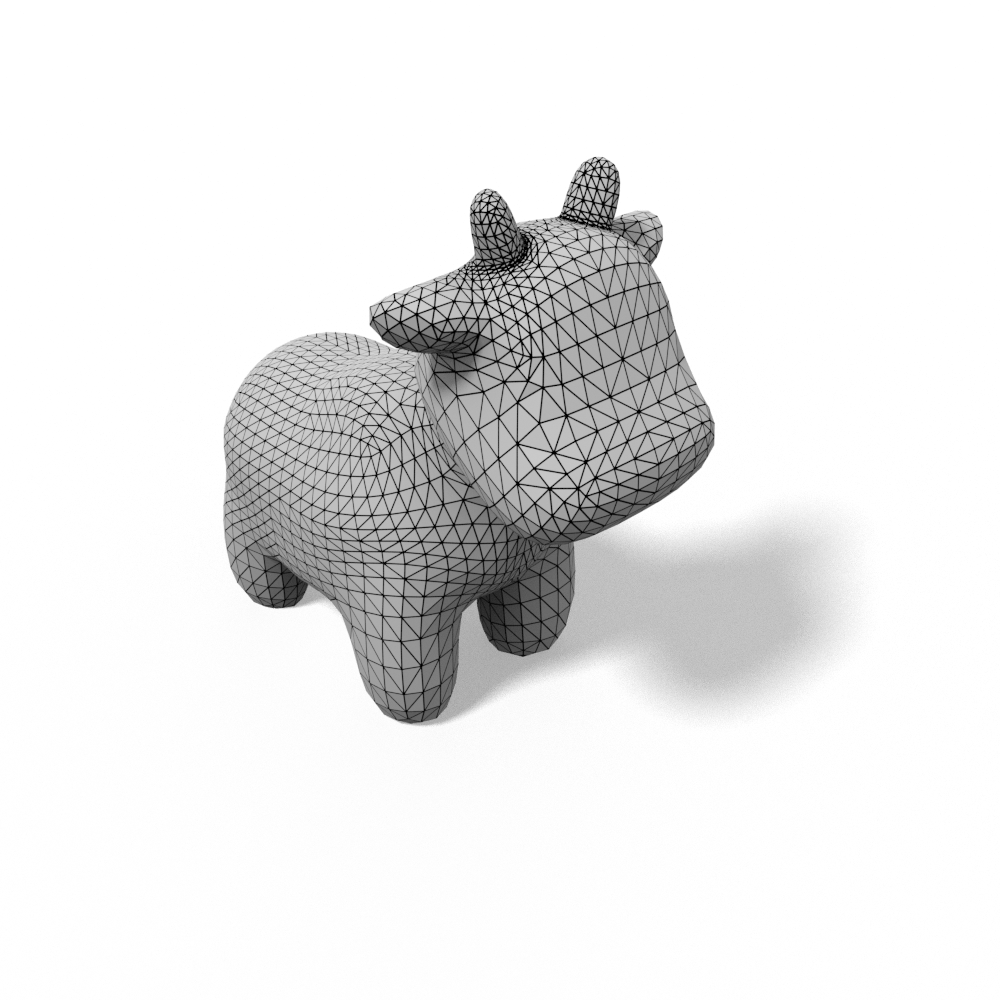
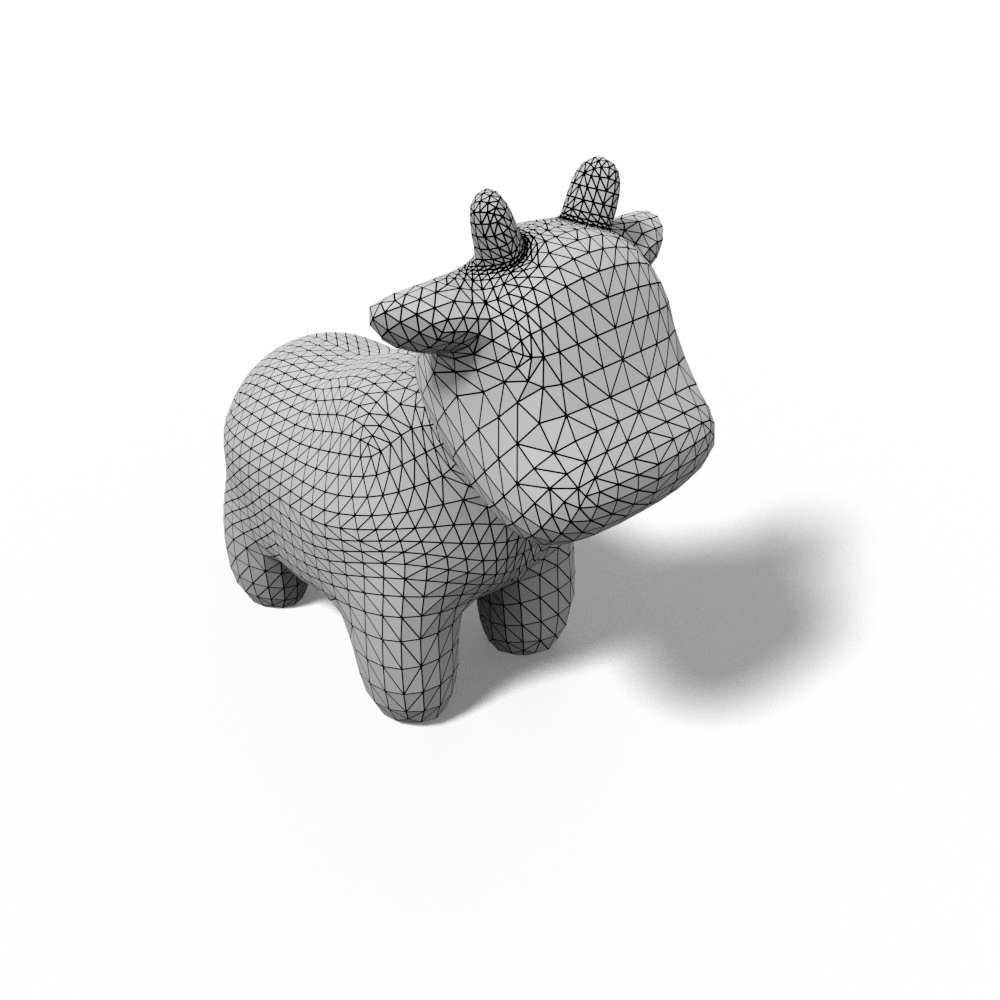
update shadow catcher and toon

Changed region(s): [[0.403, 0.527, 0.837, 0.744], [0.279, 0.589, 0.341, 0.62]]

diff --git a/cycles/utils/setMat_toon.py b/cycles/utils/setMat_toon.py
@@ -6,34 +6,44 @@ def setMat_toon(mesh, \
             saturation, \
             brightness, \
             colorPos = (0.05, 0.15),\
-            hsv_Vrange = (0.6,0.0)):
+            hsv_V = (0.6, 0.0, 0.3)):
     mat = bpy.data.materials.new('MeshMaterial')
     mesh.data.materials.append(mat)
     mesh.active_material = mat
     mat.use_nodes = True
     tree = mat.node_tree
 
-    numColor = len(colorPos) + 1 # colorPos >= 2
-    C = np.linspace(hsv_Vrange[0], hsv_Vrange[1], num=numColor) 
+    numColor = len(hsv_V) # numColor >= 3
+
+    # set principled	
+    principleNode = tree.nodes["Principled BSDF"]
+    principleNode.inputs['Roughness'].default_value = 0.7
+    principleNode.inputs['Sheen Tint'].default_value = 0
 
     # init level
     initRGB = tree.nodes.new('ShaderNodeHueSaturation')
     initRGB.inputs['Color'].default_value = (.5,.5,.5,1)
     initRGB.inputs['Hue'].default_value = 0
     initRGB.inputs['Saturation'].default_value = 0
-    initRGB.inputs['Value'].default_value = C[0]
+    initRGB.inputs['Value'].default_value = hsv_V[0]
+    initDiff = tree.nodes.new('ShaderNodeBsdfDiffuse')
+    tree.links.new(initRGB.outputs['Color'], initDiff.inputs['Color'])
+
 
     # init array
     RGBList = [None] * (numColor - 1)
     RampList = [None] * (numColor - 1)
     MixList = [None] * (numColor - 1)
+    DiffList = [None] * (numColor - 1)
     for ii in range(numColor-1):
         # RGB node
         RGBList[ii] = tree.nodes.new('ShaderNodeHueSaturation')
         RGBList[ii].inputs['Color'].default_value = (.5,.5,.5,1)
         RGBList[ii].inputs['Hue'].default_value = 0
         RGBList[ii].inputs['Saturation'].default_value = 0
-        RGBList[ii].inputs['Value'].default_value = C[ii+1]
+        RGBList[ii].inputs['Value'].default_value = hsv_V[ii+1]
+        # Diffuse after RGB
+        DiffList[ii] = tree.nodes.new('ShaderNodeBsdfDiffuse')
         # Color Ramp
         RampList[ii] = tree.nodes.new('ShaderNodeValToRGB')
         RampList[ii].color_ramp.interpolation = 'CONSTANT'
@@ -44,7 +54,8 @@ def setMat_toon(mesh, \
         if ii > 0 and ii < (numColor-1):
             tree.links.new(MixList[ii-1].outputs['Shader'], MixList[ii].inputs[1])
         tree.links.new(RampList[ii].outputs['Color'], MixList[ii].inputs[0])
-        tree.links.new(RGBList[ii].outputs['Color'], MixList[ii].inputs[2])
+        tree.links.new(RGBList[ii].outputs['Color'], DiffList[ii].inputs['Color'])
+        tree.links.new(DiffList[ii].outputs['BSDF'], MixList[ii].inputs[2])
 
     # color of the mesh
     mainColor = tree.nodes.new('ShaderNodeHueSaturation')
@@ -54,9 +65,10 @@ def setMat_toon(mesh, \
 
     # initial and end links
     addShader = tree.nodes.new('ShaderNodeAddShader')
-    tree.links.new(initRGB.outputs['Color'], MixList[0].inputs[1])
+    tree.links.new(initDiff.outputs['BSDF'], MixList[0].inputs[1])
     tree.links.new(MixList[-1].outputs['Shader'], addShader.inputs[0])
-    tree.links.new(mainColor.outputs['Color'], addShader.inputs[1])
+    tree.links.new(mainColor.outputs['Color'], principleNode.inputs['Base Color'])
+    tree.links.new(principleNode.outputs['BSDF'], addShader.inputs[1])
     tree.links.new(addShader.outputs['Shader'], tree.nodes['Material Output'].inputs['Surface'])
 
     # add normal to the color

diff --git a/cycles/utils/invisibleGround.py b/cycles/utils/invisibleGround.py
@@ -1,24 +1,15 @@
 import bpy
 
-def invisibleGround(location = (0,0,0), groundSize = 5, shadowDarkeness = 0.18):
+def invisibleGround(location = (0,0,0), groundSize = 5, shadowDarkeness = 0.7):
 	# initialize a ground for shadow
 	bpy.context.scene.cycles.film_transparent = True
 	bpy.ops.mesh.primitive_plane_add(location = location, size = groundSize)
 	bpy.context.object.cycles.is_shadow_catcher = True
 
-	# set material
+	# # set material
 	ground = bpy.context.object
 	mat = bpy.data.materials.new('MeshMaterial')
 	ground.data.materials.append(mat)
 	mat.use_nodes = True
 	tree = mat.node_tree
-	tree.nodes.new('ShaderNodeMixShader')
-	tree.nodes.new('ShaderNodeBsdfGlass')
-	tree.links.new(tree.nodes["Principled BSDF"].outputs['BSDF'], tree.nodes['Mix Shader'].inputs[2])
-	tree.links.new(tree.nodes["Glass BSDF"].outputs['BSDF'], tree.nodes['Mix Shader'].inputs[1])
-	tree.links.new(tree.nodes["Mix Shader"].outputs['Shader'], tree.nodes['Material Output'].inputs['Surface'])
-	tree.nodes["Principled BSDF"].inputs['Base Color'].default_value = (1,1,1,1)
-	tree.nodes["Glass BSDF"].inputs['Color'].default_value = (1,1,1,1)
-	tree.nodes["Glass BSDF"].inputs[1].default_value = 1.0
-	tree.nodes["Glass BSDF"].inputs[2].default_value = 1.0
-	tree.nodes["Mix Shader"].inputs['Fac'].default_value = shadowDarkeness
+	tree.nodes["Principled BSDF"].inputs['Transmission'].default_value = shadowDarkeness

diff --git a/cycles/demo_toon.py b/cycles/demo_toon.py
@@ -1,5 +1,5 @@
 import sys
-sys.path.append('/Users/hsuehtil/Dropbox/BlenderToolbox/cycles')
+sys.path.append('/home/hsuehtil/Dropbox/BlenderToolbox/cycles')
 from include import *
 import bpy
 
@@ -29,15 +29,15 @@ subdivision(mesh, level)
 
 # # set material (option1: render mesh with edges)
 colorPos = (0.05, 0.25) # the length is the number of discrete color (0~1)
+colorDark = (0.9, 0.15, 0.45) # len(colorDark) = len(colorPos) + 1
 saturation = 1.5
 brightness = 1.0
 meshColor = coralRed
-hsv_Vrange = (0.9, 0.15)
-setMat_toon(mesh, meshColor, saturation, brightness, colorPos, hsv_Vrange)
+setMat_toon(mesh, meshColor, saturation, brightness, colorPos, colorDark)
 
 # # set invisible plane (shadow catcher)
 groundCenter = (0,0,0)
-shadowDarkeness = 0.05
+shadowDarkeness = 0.7
 groundSize = 20
 invisibleGround(groundCenter, groundSize, shadowDarkeness)
 

diff --git a/cycles/demo_edge.py b/cycles/demo_edge.py
@@ -1,5 +1,5 @@
 import sys
-sys.path.append('/Users/hsuehtil/Dropbox/BlenderToolbox/cycles')
+sys.path.append('/home/hsuehtil/Dropbox/BlenderToolbox/cycles')
 
 from include import *
 import bpy
@@ -39,7 +39,7 @@ setMat_edge(mesh, edgeThickness, edgeColor, edgeColorSaturation, edgeColorBright
 
 # # set invisible plane (shadow catcher)
 groundCenter = (0,0,0)
-shadowDarkeness = 0.05
+shadowDarkeness = 0.8
 groundSize = 20
 invisibleGround(groundCenter, groundSize, shadowDarkeness)
 

diff --git a/cycles/demo_facePoints.py b/cycles/demo_facePoints.py
@@ -1,5 +1,5 @@
 import sys
-sys.path.append('/Users/hsuehtil/Dropbox/BlenderToolbox/cycles')
+sys.path.append('/home/hsuehtil/Dropbox/BlenderToolbox/cycles')
 
 from include import *
 import bpy
@@ -46,7 +46,7 @@ drawPoints(mesh, ptColor, ptSize, ptSaturation, ptBrightness, emitType, showMesh
 
 # # set invisible plane (shadow catcher)
 groundCenter = (0,0,0)
-shadowDarkeness = 0.05
+shadowDarkeness = 0.6
 groundSize = 20
 invisibleGround(groundCenter, groundSize, shadowDarkeness)
 

diff --git a/cycles/demo_vertexPoints.py b/cycles/demo_vertexPoints.py
@@ -1,5 +1,5 @@
 import sys
-sys.path.append('/Users/hsuehtil/Dropbox/BlenderToolbox/cycles')
+sys.path.append('/home/hsuehtil/Dropbox/BlenderToolbox/cycles')
 from include import *
 import bpy
 
@@ -45,7 +45,7 @@ drawPoints(mesh, ptColor, ptSize, ptSaturation, ptBrightness, emitType, showMesh
 
 # # set invisible plane (shadow catcher)
 groundCenter = (0,0,0)
-shadowDarkeness = 0.05
+shadowDarkeness = 0.8
 groundSize = 20
 invisibleGround(groundCenter, groundSize, shadowDarkeness)
 

diff --git a/cycles/demo_singleColor.py b/cycles/demo_singleColor.py
@@ -1,5 +1,5 @@
 import sys
-sys.path.append('/Users/hsuehtil/Dropbox/BlenderToolbox/cycles')
+sys.path.append('/home/hsuehtil/Dropbox/BlenderToolbox/cycles')
 from include import *
 import bpy
 
@@ -36,7 +36,7 @@ setMat_singleColor(mesh, saturation, brightness, meshColor, AOStrength)
 
 # # set invisible plane (shadow catcher)
 groundCenter = (0,0,0)
-shadowDarkeness = 0.05
+shadowDarkeness = 0.7
 groundSize = 20
 invisibleGround(groundCenter, groundSize, shadowDarkeness)
 

diff --git a/cycles/demo_pointCloud.py b/cycles/demo_pointCloud.py
@@ -1,5 +1,5 @@
 import sys
-sys.path.append('/Users/hsuehtil/Dropbox/BlenderToolbox/cycles')
+sys.path.append('/home/hsuehtil/Dropbox/BlenderToolbox/cycles')
 
 from include import *
 import bpy
@@ -29,7 +29,7 @@ setMat_pointCloud(mesh, ptColor, ptSize, ptSaturation, ptBrightness)
 
 # # set invisible plane (shadow catcher)
 groundCenter = (0,0,0)
-shadowDarkeness = 0.05
+shadowDarkeness = 0.6
 groundSize = 20
 invisibleGround(groundCenter, groundSize, shadowDarkeness)
 

diff --git a/cycles/demo_vertexColor.py b/cycles/demo_vertexColor.py
@@ -1,5 +1,5 @@
 import sys
-sys.path.append('/Users/hsuehtil/Dropbox/BlenderToolbox/cycles')
+sys.path.append('/home/hsuehtil/Dropbox/BlenderToolbox/cycles')
 from include import *
 import bpy
 
@@ -34,7 +34,7 @@ setMat_VColor(mesh, saturation, brightness)
 
 # # set invisible plane (shadow catcher)
 groundCenter = (0,0,0)
-shadowDarkeness = 0.05
+shadowDarkeness = 0.7
 groundSize = 20
 invisibleGround(groundCenter, groundSize, shadowDarkeness)
 
